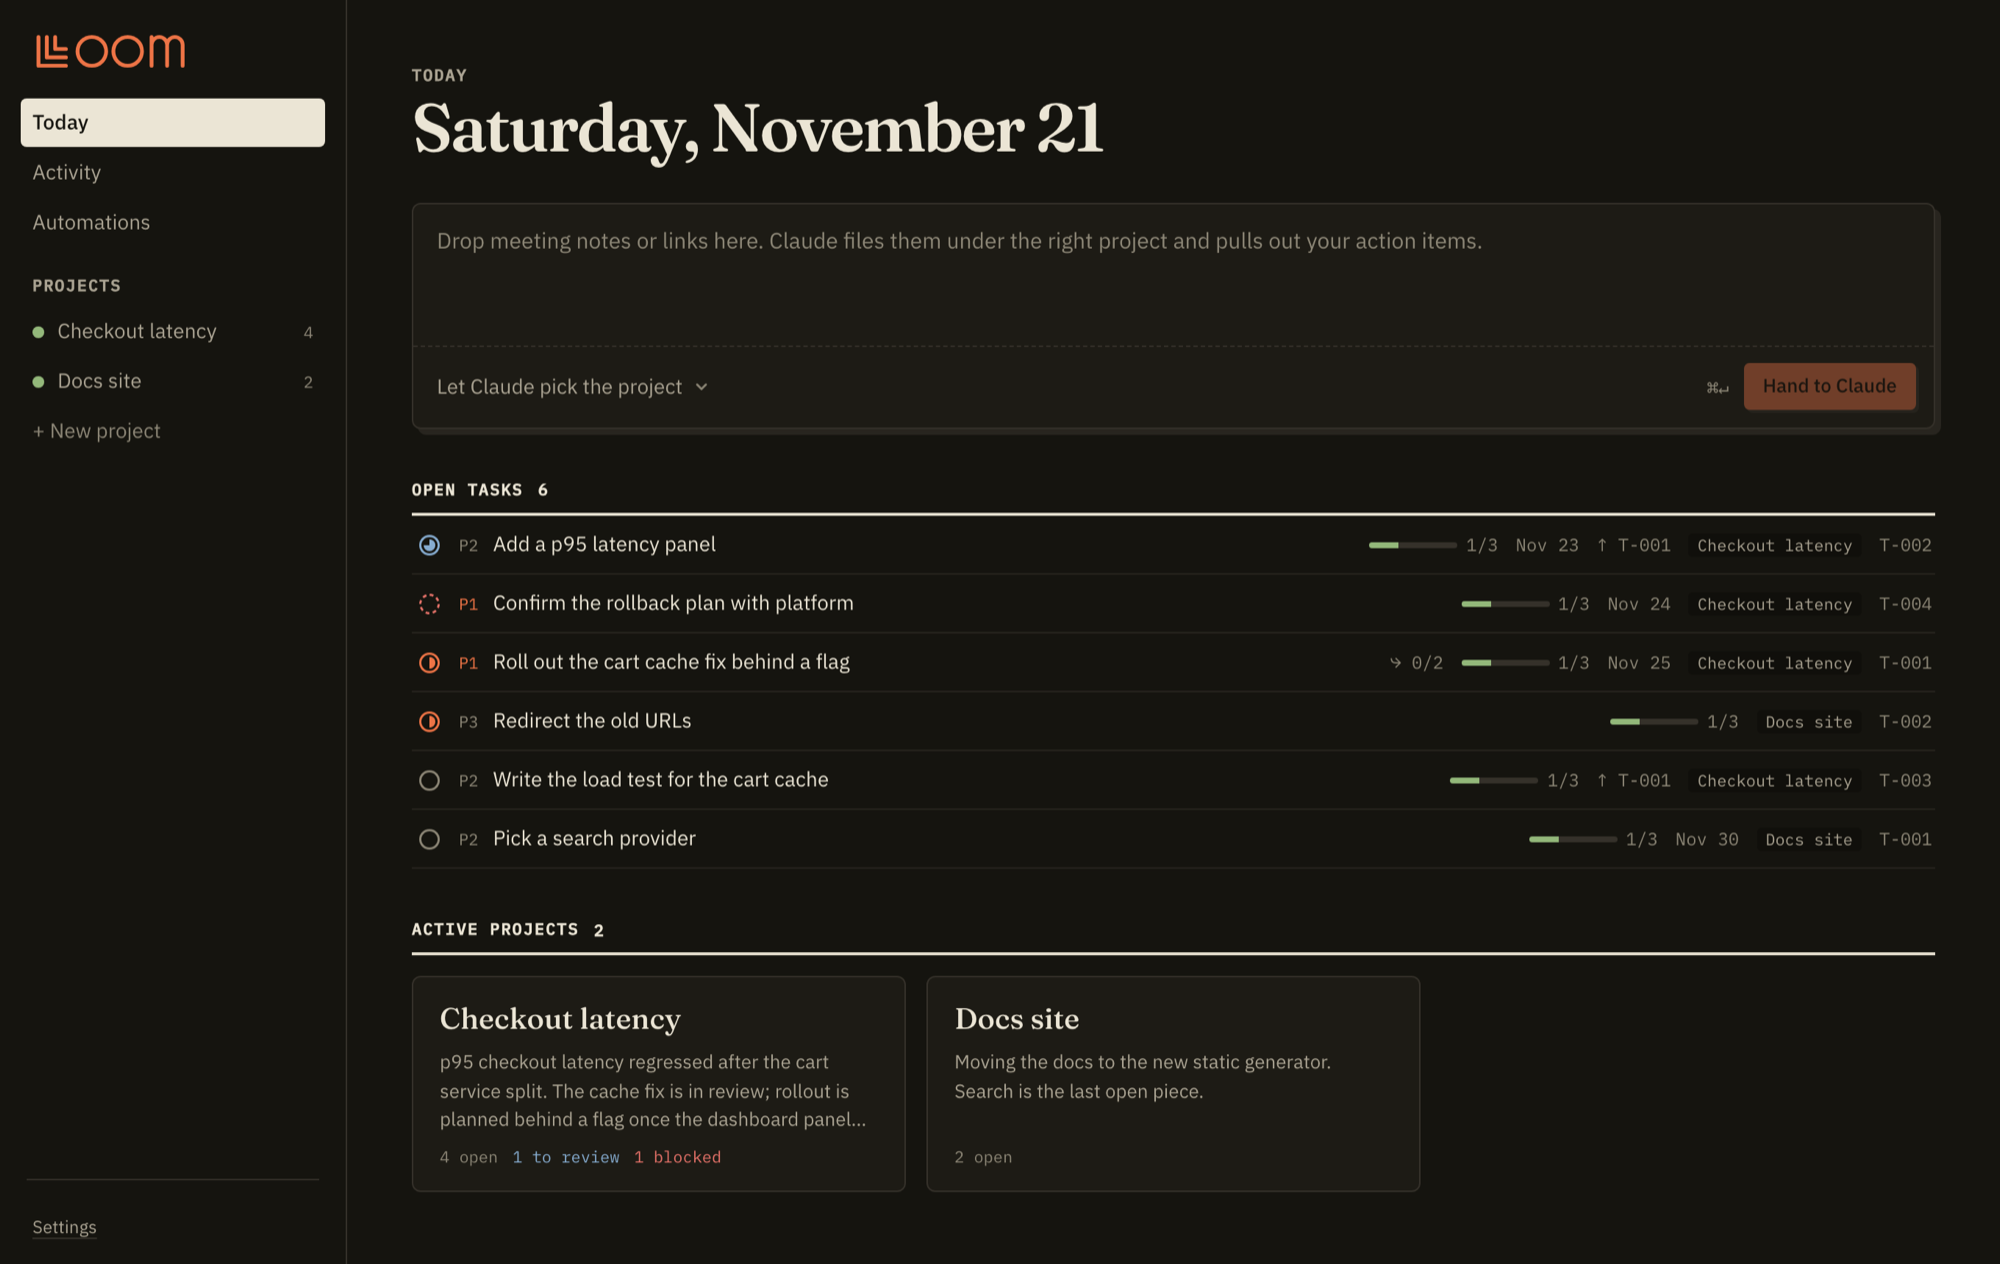
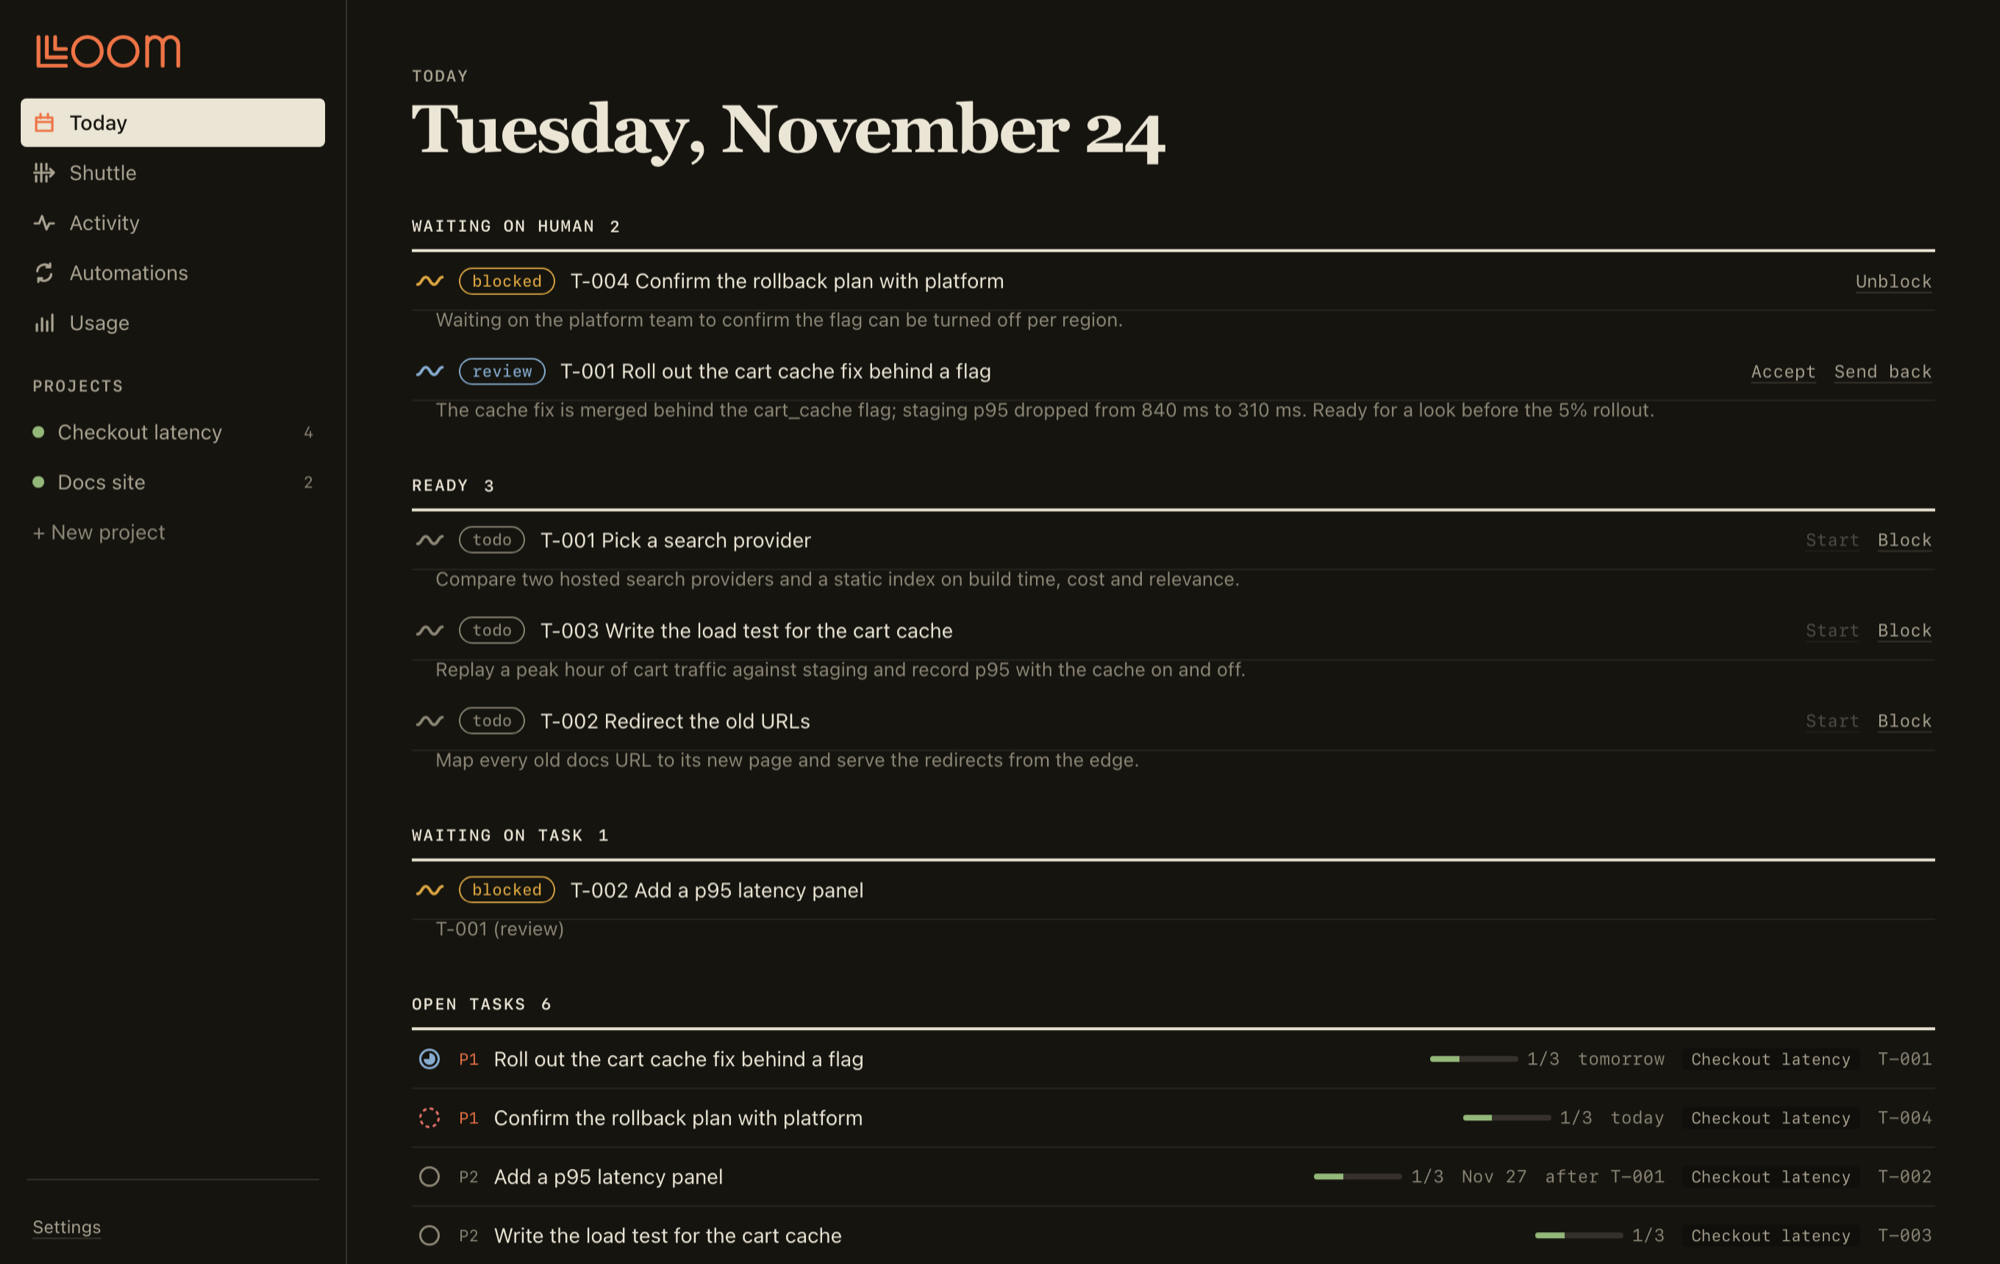
Retake the Today screenshot with the four-group board

diff --git a/README.md b/README.md
@@ -8,7 +8,7 @@
   <a href="LICENSE"><img src="https://img.shields.io/badge/license-MIT-ee7446" alt="MIT license"></a>
 </p>
 
-![Loom's Today view: a box to drop notes into, open tasks and active projects](docs/today.png)
+![Loom's Today view: the board of work waiting on you, ready and waiting on another task, then open tasks](docs/today.png)
 
 A local, single-user project notebook kept up to date by headless Claude Code sessions.
 Drop in meeting notes or links; Claude files them under the right project, keeps a small
